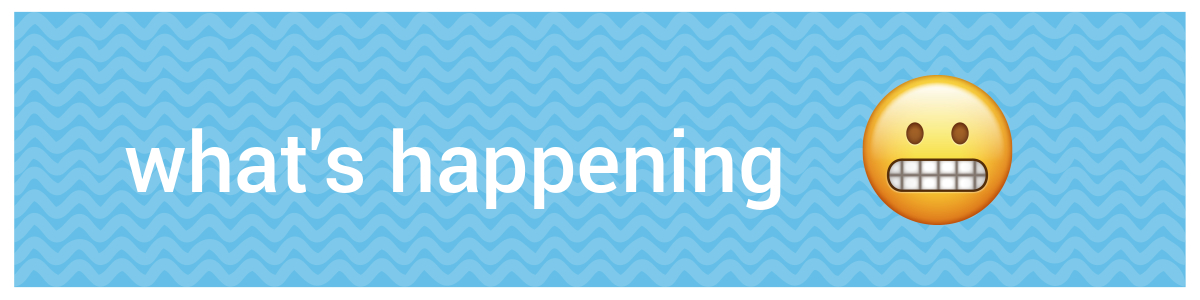
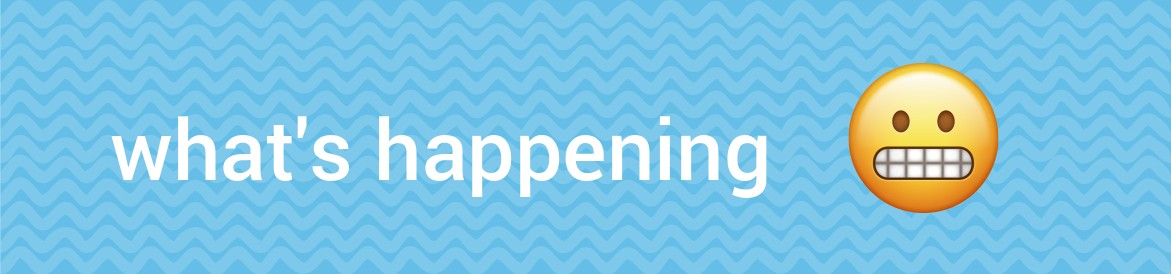
trying to make jsps pretty
Took 1 hour 44 minutes

Changed region(s): [[0.0, 0.0, 1.0, 1.0], [0.5534, 0.4088, 0.5841, 0.4672]]

diff --git a/src/main/webapp/main.css b/src/main/webapp/main.css
@@ -1,0 +1,28 @@
+.nav-wrapper {
+    margin-top: 0em;
+}
+
+img {
+    margin: 0em !important;
+
+    position: relative;
+    padding-left: 0 !important;
+    padding-right: 0 !important;
+
+}
+
+.nav-wrapper {
+
+    margin-left: .5em;
+    margin-right: .5em;
+}
+
+.no-margin {
+    margin: 0em;
+    padding: 0em;
+}
+
+.container{
+    width: 100%;
+    max-width:initial;
+}

diff --git a/src/test/java/com.kellylyke/persistence/PreferenceDaoTest.java b/src/test/java/com.kellylyke/persistence/PreferenceDaoTest.java
@@ -25,6 +25,7 @@ public class PreferenceDaoTest {
 
     GenericDao<Preference> dao;
     GenericDao<User> userDao;
+
     /**
      * Sets up dao, creates fresh database
      *
